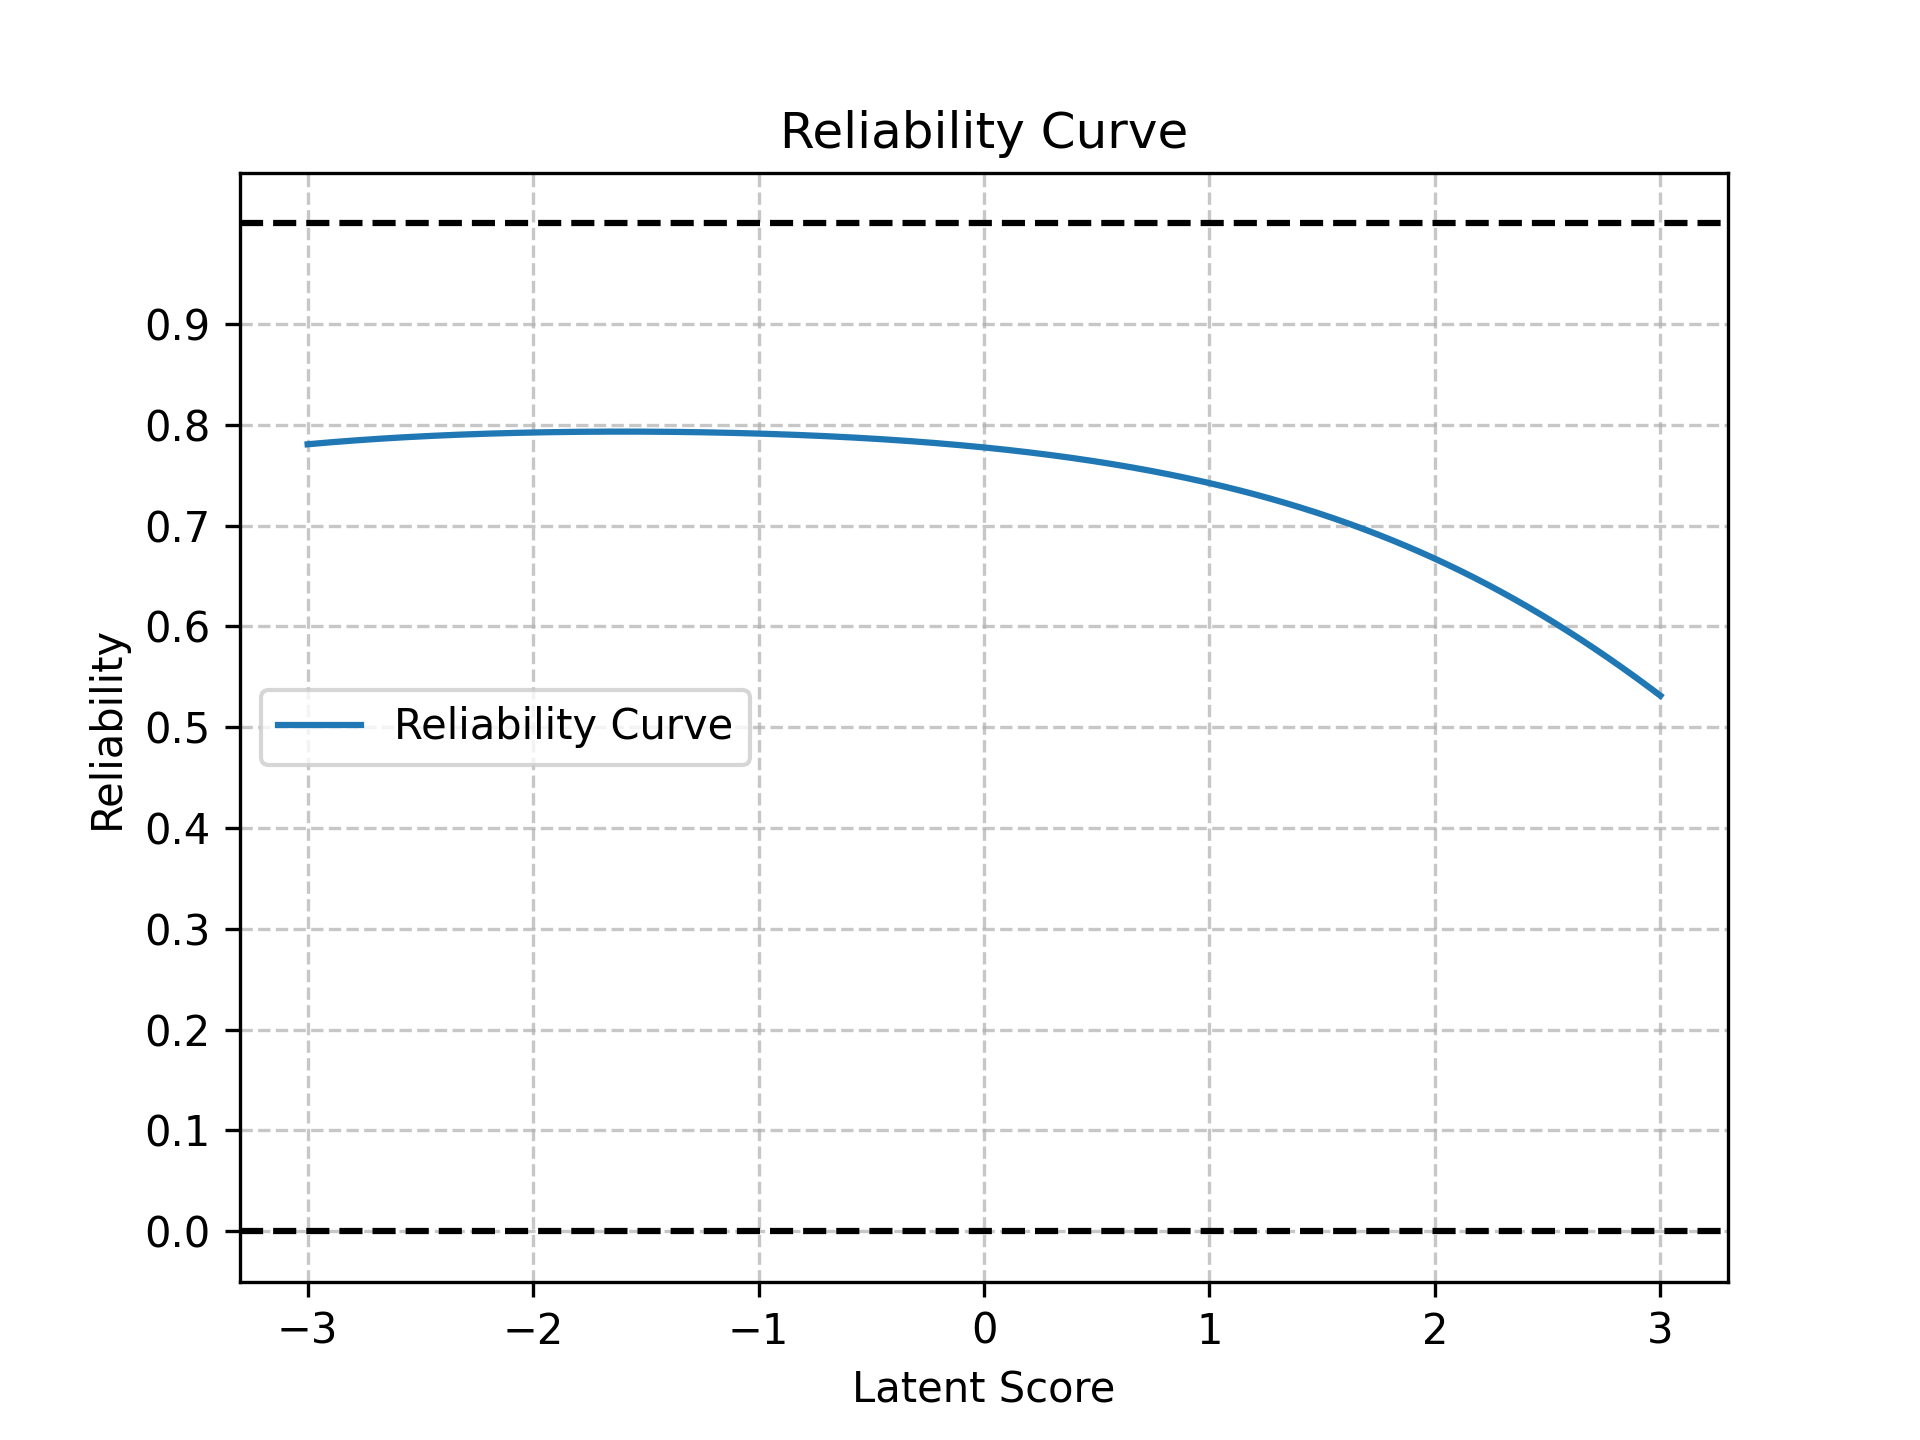
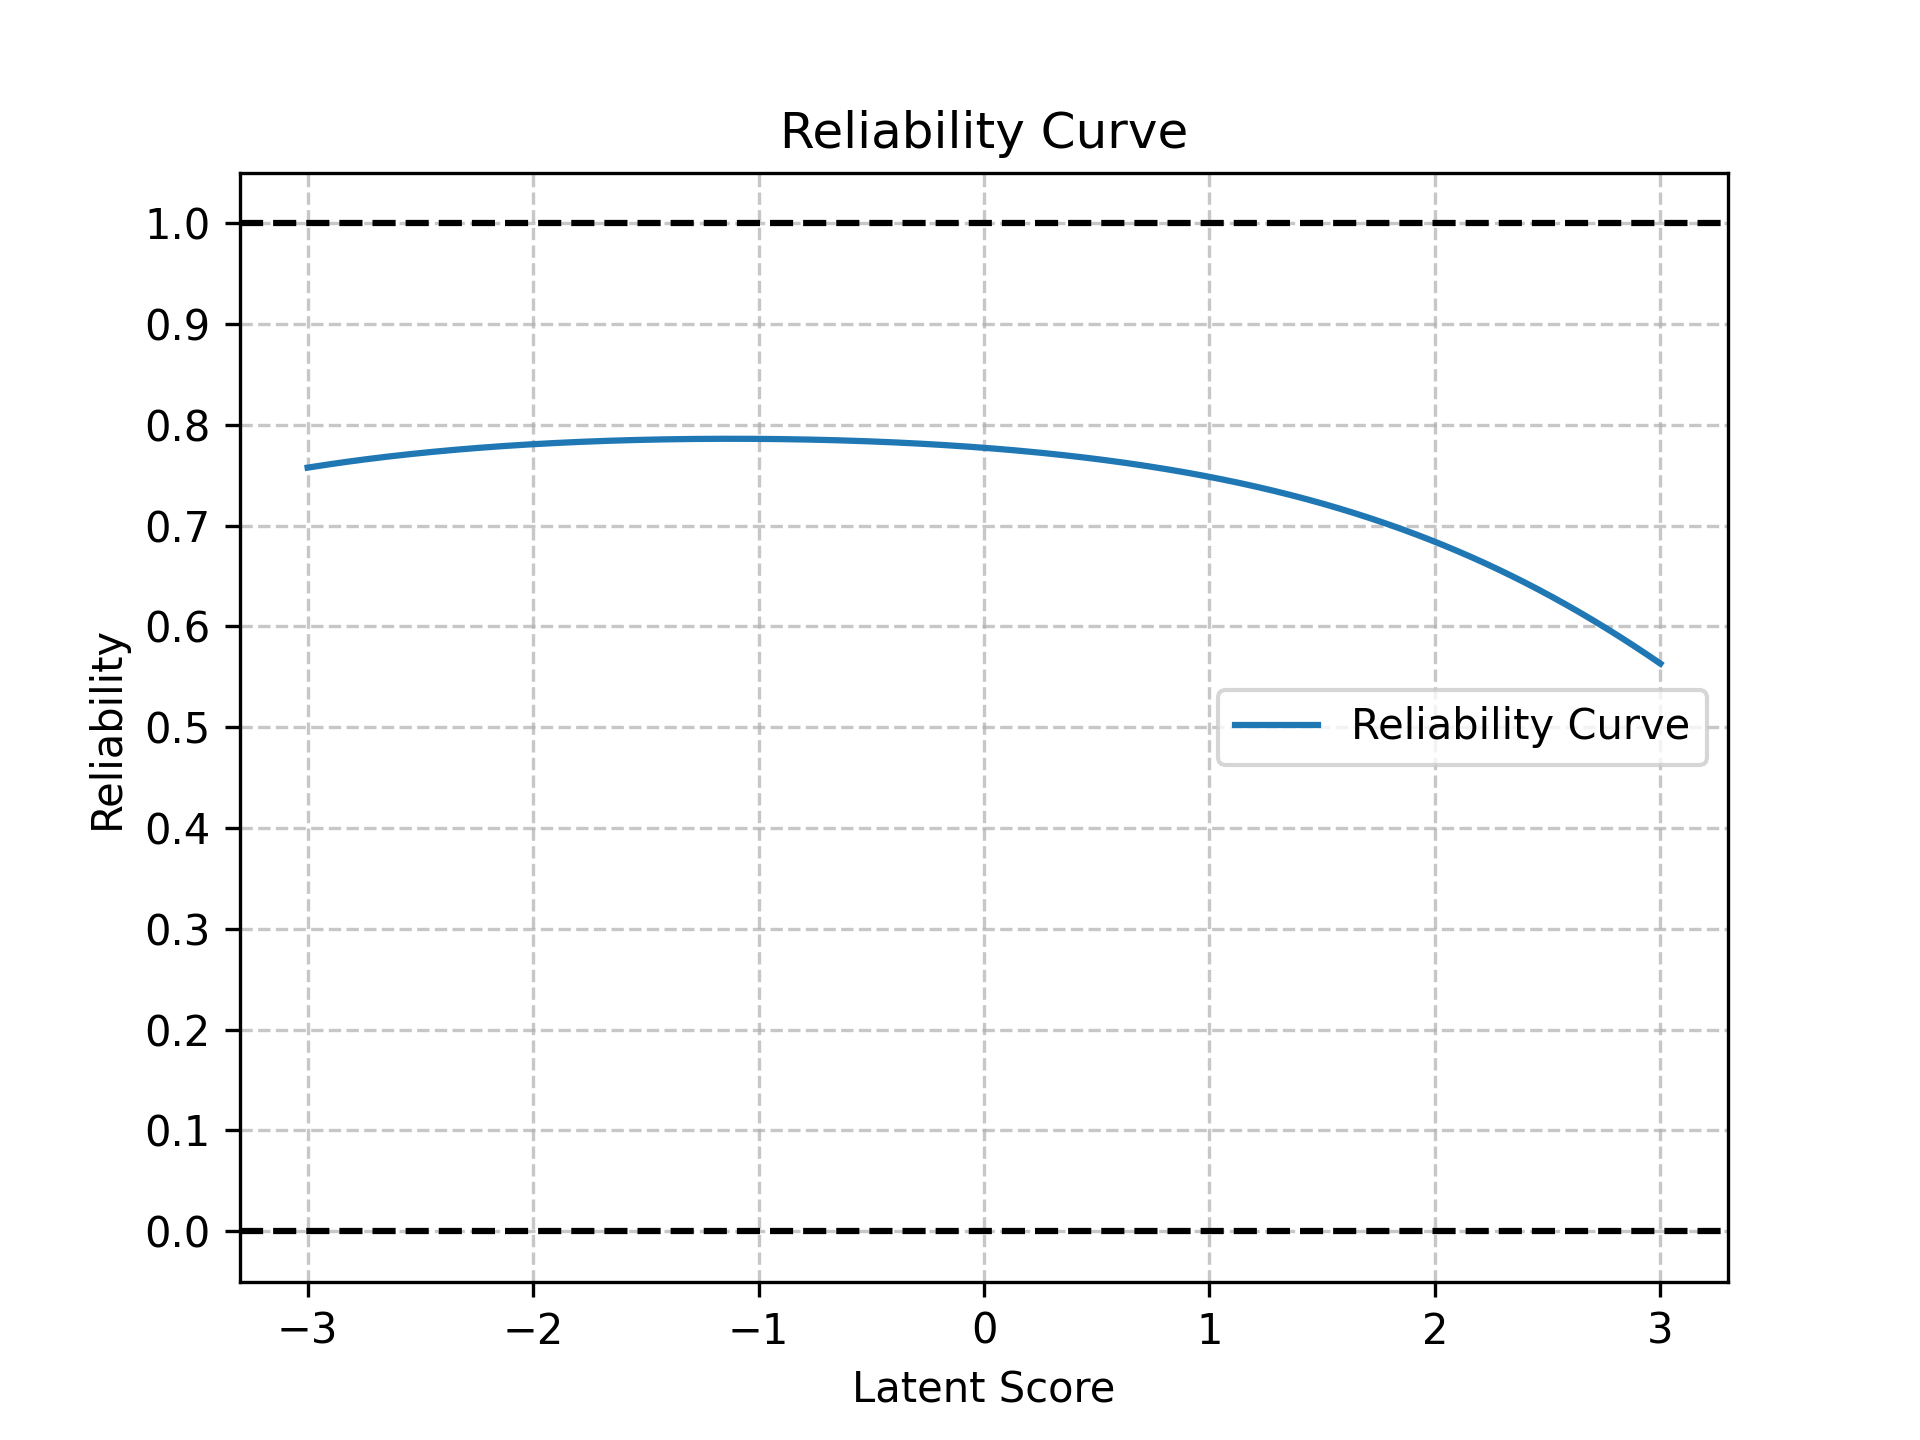
Added information about metric invariance

diff --git a/_posts/2025-10-14-nerd-scale.md b/_posts/2025-10-14-nerd-scale.md
@@ -69,21 +69,55 @@ The latent nerd scores and self-reported nerdiness correlate *relatively* weakly
     </figure>
 </div>
 
-## Examination of Sex Differences
-I tested for differential item functioning[^2] (DIF) by gender. Items with absolute DIF magnitude > 0.10 are shown below; positive values indicate greater probability of endorsement for women at the same latent level; negative values favor men.
+## Examination of Gender Differences
+
+Before analyzing gender differences, it is necessary to verify that the scale functions similarly for men and women. First, I check whether any item loadings differ by gender. An item whose loading varies substantially across genders indicates a difference in how central that item is to the underlying construct of nerdiness. The table below shows item loadings for each gender and the between-group differences. Items in **bold** are those whose loadings differ meaningfully by gender.
+
+| | Male | Female | Difference |
+|-|-|-|-|
+| Q1: I am interested in science. | 0.48 | 0.48 | -0.00 |
+| Q2: I was in advanced classes. | 0.38 | 0.44 | -0.07 |
+| Q3: I like to play RPGs. (Ex. D&D) | 0.44 | 0.44 | 0.01 |
+| Q4: My appearance is not as important as my intelligence. | 0.49 | 0.51 | -0.02 |
+| Q5: I collect books. | 0.57 | 0.59 | -0.02 |
+| Q6: I prefer academic success to social success. | 0.54 | 0.54 | -0.00 |
+| Q7: I watch science related shows. | 0.46 | 0.43 | 0.03 |
+| Q8: I spend recreational time researching topics others might find dry or overly rigorous. | 0.46 | 0.50 | -0.04 |
+| Q9: I like science fiction. | 0.55 | 0.57 | -0.02 |
+| Q10: I would rather read a book than go to a party. | 0.51 | 0.47 | 0.04 |
+| Q11: I am more comfortable with my hobbies than I am with other people. | 0.27 | 0.31 | -0.04 |
+| Q12: I spend more time at the library than any other public place. | 0.44 | 0.49 | -0.05 |
+| Q13: I would describe my smarts as bookish. | 0.58 | 0.56 | 0.03 |
+| Q14: I like to read technology news reports. | 0.50 | 0.45 | 0.06 |
+| **Q15: I have started writing a novel.** | **0.22** | **0.32** | **-0.10** |
+| Q16: I gravitate towards introspection. | 0.36 | 0.40 | -0.04 |
+| Q17: I am more comfortable interacting online than in person. | 0.54 | 0.53 | 0.01 |
+| Q18: I love to read challenging material. | 0.32 | 0.29 | 0.03 |
+| Q19: I have played a lot of video games. | 0.20 | 0.25 | -0.05 |
+| Q20: I was a very odd child. | 0.53 | 0.48 | 0.04 |
+| Q21: I sometimes prefer fictional people to real ones. | 0.34 | 0.36 | -0.02 |
+| Q22: I enjoy learning more than I need to. | 0.42 | 0.42 | -0.00 |
+| Q23: I get excited about my ideas and research. | 0.47 | 0.49 | -0.03 |
+| Q24: I am a strange person. | 0.56 | 0.54 | 0.01 |
+| Q25: I care about super heroes. | 0.38 | 0.41 | -0.02 |
+| Q26: I can be socially awkward at times. | 0.56 | 0.57 | -0.01 |
+
+The only item that showed a substantial difference in loadings was Q15: “I have started writing a novel,” which loaded more strongly for women than for men. This suggests that novel-writing relates to nerdiness differently across genders; it is less central to the idea of male nerdiness than to female nerdiness. Because the loadings differ for this item, it will be excluded from the gender difference analysis.
+
+Next, I tested for differential item functioning[^2] (DIF) by gender. Items with absolute DIF magnitude > 0.10 are shown below; positive values indicate greater probability of endorsement for women at the same latent level; negative values favor men.
 
 Biased in favor of women:
 - Q8: I spend recreational time researching topics others might find dry or overly rigorous. (+0.19)
 - Q23: I get excited about my ideas and research. (+0.17)
 - Q21: I sometimes prefer fictional people to real ones. (+0.16)
 - Q13: I would describe my smarts as bookish. (+0.14)
-- Q22: I enjoy learning more than I need to. (+0.11)
+- Q22: I enjoy learning more than I need to. (+0.12)
 
 Biased in favor of men:
-- Q19: I have played a lot of video games. (-0.26)
+- Q19: I have played a lot of video games. (-0.25)
 - Q25: I care about super heroes. (-0.24)
-- Q7: I watch science related shows. (-0.15)
 - Q11: I am more comfortable with my hobbies than I am with other people. (-0.15)
+- Q7: I watch science related shows. (-0.15)
 - Q5: I collect books. (-0.11)
 
 Several biased items reflect cultural differences in hobby expression and media consumption rather than differences in the underlying latent trait. The distribution of latent nerdiness by gender is displayed below:
@@ -100,20 +134,20 @@ Adjusting for bias, there's little difference between average male and female ne
 
 To make a shorter scale, I applied [Bayesian Design Optimization](https://haines-lab.com/post/bayesian-design-optimization-an-application-to-item-reduction-in-scale-development-research/) to reduce the number of items while maximizing information. Reducing the number of items to 12 (while excluding items displaying DIF), yields the following items (ordered by expected information contribution): 
 
-- Q4: My appearance is not as important as my intelligence.
-- Q9: I like science fiction.
 - Q6: I prefer academic success to social success.
-- Q17: I am more comfortable interacting online than in person.
-- Q2: I was in advanced classes.
-- Q26: I can be socially awkward at times.
 - Q1: I am interested in science.
-- Q20: I was a very odd child.
-- Q24: I am a strange person.
-- Q3: I like to play RPGs. (Ex. D&D)
-- Q10: I would rather read a book than go to a party.
+- Q12: I spend more time at the library than any other public place.
+- Q17: I am more comfortable interacting online than in person.
+- Q9: I like science fiction.
 - Q14: I like to read technology news reports.
+- Q25: I care about super heroes.
+- Q4: My appearance is not as important as my intelligence.
+- Q23: I get excited about my ideas and research.
+- Q10: I would rather read a book than go to a party.
+- Q16: I gravitate towards introspection.
+- Q2: I was in advanced classes.
 
-The plot below shows the reliability across the scale. The 12-item set reduces reliability slightly (coefficient omega has dropped to 0.80), although the effect is more pronounced at the higher end of the scale.
+The plot below shows the reliability across the scale. The 12-item set reduces reliability slightly (coefficient omega has dropped to 0.79), although the effect is more pronounced at the higher end of the scale.
 
 <div style="text-align: center;">
     <figure>
